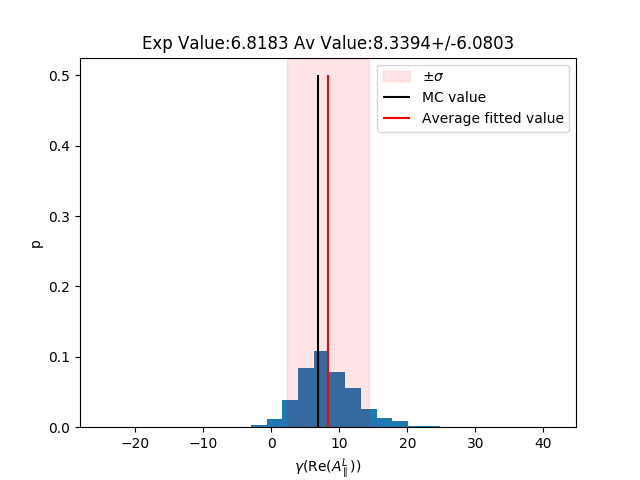
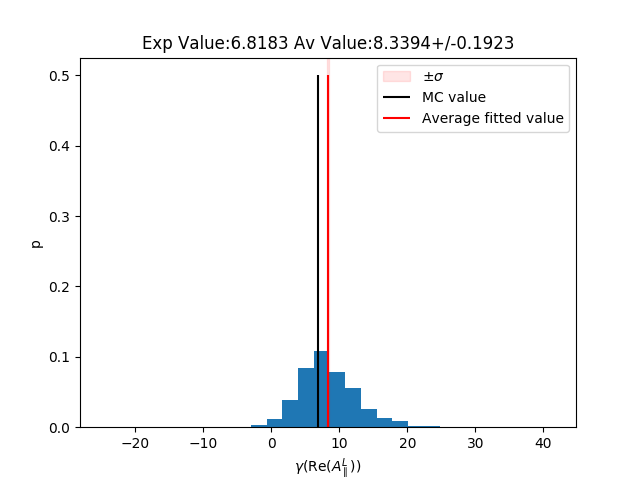
Latest V (plot_minuit , and data)

Changed region(s): [[0.4375, 0.125, 0.5938, 0.875], [0.7188, 0.0625, 0.8125, 0.125]]

diff --git a/Minuit/toy_minuit.py b/Minuit/toy_minuit.py
@@ -10,29 +10,31 @@ from tqdm import tqdm
 import math
 
 
+FIX=[
+0,0,0,
+0,0,0,
+0,0,0,
+0,0,0,
+0,0,0,
+0,0,0,
+0,0,0,
+1,1,1,
+0,0,0,
+1,1,1,
+1,1,1,
+1,1,1,
+0,1,1,
+0,1,1,
+0,1,1,
+0,1,1,
+]
+
 class toy:
-    def __init__(self):
+    def __init__(self , fix=FIX):
         self.model = None
         self.coeffs = [] #Model coeffs
         self.events = [] #generated events
-        self.fix_array = [
-                    0,0,0,
-                    0,0,0,
-                    0,0,0,
-                    0,0,0,
-                    0,0,0,
-                    0,0,0,
-                    0,0,0,
-                    1,1,1,
-                    0,0,0,
-                    1,1,1,
-                    1,1,1,
-                    1,1,1,
-                    0,1,1,
-                    0,1,1,
-                    0,1,1,
-                    0,1,1,
-                    ]
+        self.fix_array = fix
         self.coeff_fit = [] #fitted coefficients 
 
     def generate(self, events = 24000, model = "SM",verbose = False):
@@ -57,13 +59,31 @@ class toy:
                 Coef_INIT[i]=  Coef0[i]
         return Coef_INIT
 
-    def minuitfit(self, Ncall=10000,verbose = False):
+    def minuitfit(self, Ncall=10000, init= 'DEFAULT' , verbose = False):
+
+        if init == None or init == 'DEFAULT': 
+            A=bmf.coeffs.fit(initialization= FIT_INIT_TWICE_LARGEST_SIGNAL_SAME_SIGN )
+            #A=bmf.coeffs.fit(bmf.coeffs.fit_initialization_scheme_default)
+        elif init == 'FIXED' :
+            A=bmf.coeffs.fit(initialization= FIT_INIT_CURRENT_SIGNAL )
+
+        
+            #A=bmf.coeffs.fit(bmf.coeffs.fit_initialization_scheme_fixed)
+        elif init == 'ANY_SIGN' : 
+            A=bmf.coeffs.fit(initialization= FIT_INIT_TWICE_CURRENT_SIGNAL_ANY_SIGN )
+
+            #A=bmf.coeffs.fit(bmf.coeffs.fit_initialization_scheme_any_sign)
+
+
+
         if len(self.events) == 0:
             print("No events generated")
             return
-        A=bmf.coeffs.fit(bmf.coeffs.fit_initialization_scheme_default)
+        
         Coef_INIT=[A[i].numpy() for i in range(len(A))]
         Coef_INIT= self.set_coef(Coef_INIT, self.coeffs, self.fix_array)
+
+        print(Coef_INIT)
 
         if verbose:
             print("Coeffs used for MC:", self.coeffs)
@@ -72,11 +92,8 @@ class toy:
         m = Minuit.from_array_func(self.nll_iminuit,Coef_INIT, fix= self.fix_array , errordef=0.5, pedantic = False)
         t0=time.time()
         m_final=m.migrad( ncall=Ncall)
-        #if m_final.is_above_max_edm==True :
-         #   print('NOOOOOOOOOOOOO')
-        print(m.migrad_ok())
-        print(type(m_final))
-        print(m_final )
+
+
         t1=time.time()
         if verbose:
             print("Time taken to fit :", t1-t0)
@@ -85,7 +102,7 @@ class toy:
         if verbose:
             print(self.coeff_fit)
             print('NLL for final set of coeffs:' , self.nll_iminuit(self.coeff_fit))
-        return
+        return self.coeff_fit , self.nll_iminuit(self.coeff_fit)
 
         
  
@@ -96,7 +113,7 @@ class toy:
 
     
 
-'''
+
 toy1 = toy()
 t0=time.time()
 toy1.generate()
@@ -107,4 +124,5 @@ toy1.minuitfit(Ncall=100)
 t1=time.time()
 print(t1-t0)
 print(toy1.coeff_fit)
-'''
+
+

diff --git a/Minuit/plot_minuit.py b/Minuit/plot_minuit.py
@@ -42,6 +42,13 @@ def gaussian(x, mu, sig):
     #(1/(np.sqrt(2*np.pi*np.power(sig , 2.))))*
     return np.exp(-np.power(x - mu, 2.) / (2 * np.power(sig, 2.)))
 
+'''
+def get_errors(coeffs , errors ): 
+    errors = []
+    mean = np.mean(coeffs)
+
+'''
+
 def plot_stats(data , N , save_path=None , save=False):
     LaTex=LaTex_labels(amplitude_latex_names)
     Title=Standard_labels(amplitude_names)
@@ -75,7 +82,7 @@ def plot_stats(data , N , save_path=None , save=False):
         ax.set_xlim([ave_val-6*width, ave_val+6*width])
         ax.vlines(ave_val , ymin , ymax/2 , label='Average fitted value' , color='r')  
         ax.set(xlabel=LaTex[J], ylabel=r'p')
-        ax.set_title('Exp Value:'+str(format(true_val, '.4f'))+' Av Value:'+str(format( ave_val, '.4f'))+'+/-'+str(format(width, '.4f')))
+        ax.set_title('Exp Value:'+str(format(true_val, '.4f'))+' Av Value:'+str(format( ave_val, '.4f'))+'+/-'+str(format(width/np.sqrt(1000), '.4f')))
         
         #print(coefs[:,j])
         n , bins , _ =plt.hist(A  , bins = 80 , normed= True)
@@ -84,7 +91,7 @@ def plot_stats(data , N , save_path=None , save=False):
         #GAUSS=np.sort(A)
         #plt.plot(GAUSS , gaussian( GAUSS , meanLiam[0] , errsLiam[0]) , '-')
         
-        Xmin , Xmax = ave_val-width ,  ave_val+width
+        Xmin , Xmax = ave_val-width/np.sqrt(1000) ,  ave_val+width/np.sqrt(1000)
         ax.axvspan(Xmin, Xmax, alpha=0.1, color='red' , label= r'$\pm \sigma$')
         ax.legend()
         if save:

diff --git a/Minuit/test_iminuit.py b/Minuit/test_iminuit.py
@@ -184,7 +184,7 @@ def plot_profiles(m , Coef0 ,coeffout,fix_array , amplitude_latex_names, save_pa
     if show:
         plt.show()
   
-def minuitfit(Coef0, signal_events,fix_array, Ncall=10000,verbose = False):
+def minuitfit(Coef0, signal_events,fix_array, Ncall=10000, verbose = False):
     A=bmf.coeffs.fit(bmf.coeffs.fit_initialization_scheme_default)
     Coef_INIT=[A[i].numpy() for i in range(len(A))]
     Coef_INIT=set_coef(Coef_INIT, Coef0, fix_array)
@@ -202,6 +202,8 @@ def minuitfit(Coef0, signal_events,fix_array, Ncall=10000,verbose = False):
 
     m.migrad( ncall=Ncall)
     M=m.get_fmin()
+
+    print(M)
     if M.is_above_max_edm==False  :
         bol=0
     else :
@@ -255,5 +257,5 @@ array=[
 
 
 #save_path = './Minuit/Test/'
-#plot_profiles(m , Coef0 ,Coef_OUT,fix_array , amplitude_latex_names, save_path , show = False, save = False)
+#plot_profiles(m , Coef0 ,Coef_OUT,fix_array , amplitude_latex_names , show = False, save = False)
  

diff --git a/b_meson_fit/coeffs.py b/b_meson_fit/coeffs.py
@@ -140,7 +140,7 @@ fit_trainable_idxs = list(itertools.chain(range(0, 21), range(24, 27), [36], [39
 # Fit coefficient initialization schemes
 FIT_INIT_TWICE_LARGEST_SIGNAL_SAME_SIGN = 'TWICE_LARGEST_SIGNAL_SAME_SIGN'
 FIT_INIT_TWICE_CURRENT_SIGNAL_ANY_SIGN = 'TWICE_CURRENT_SIGNAL_ANY_SIGN'
-FIT_INIT_CURRENT_SIGNAL = 'CURRENT_SIGNAL'
+FIT_INIT_CURRENT_SIGNAL = CURRENT_SIGNAL
 fit_init_schemes = [
     FIT_INIT_TWICE_LARGEST_SIGNAL_SAME_SIGN,
     FIT_INIT_TWICE_CURRENT_SIGNAL_ANY_SIGN,
@@ -151,6 +151,9 @@ fit_init_schemes_with_randomization = [
     FIT_INIT_TWICE_CURRENT_SIGNAL_ANY_SIGN,
 ]
 fit_initialization_scheme_default = FIT_INIT_TWICE_LARGEST_SIGNAL_SAME_SIGN
+fit_initialization_fixed = FIT_INIT_CURRENT_SIGNAL
+fit_initialization_scheme_any_sign = FIT_INIT_TWICE_CURRENT_SIGNAL_ANY_SIGN
+
 
 
 def signal(model):
